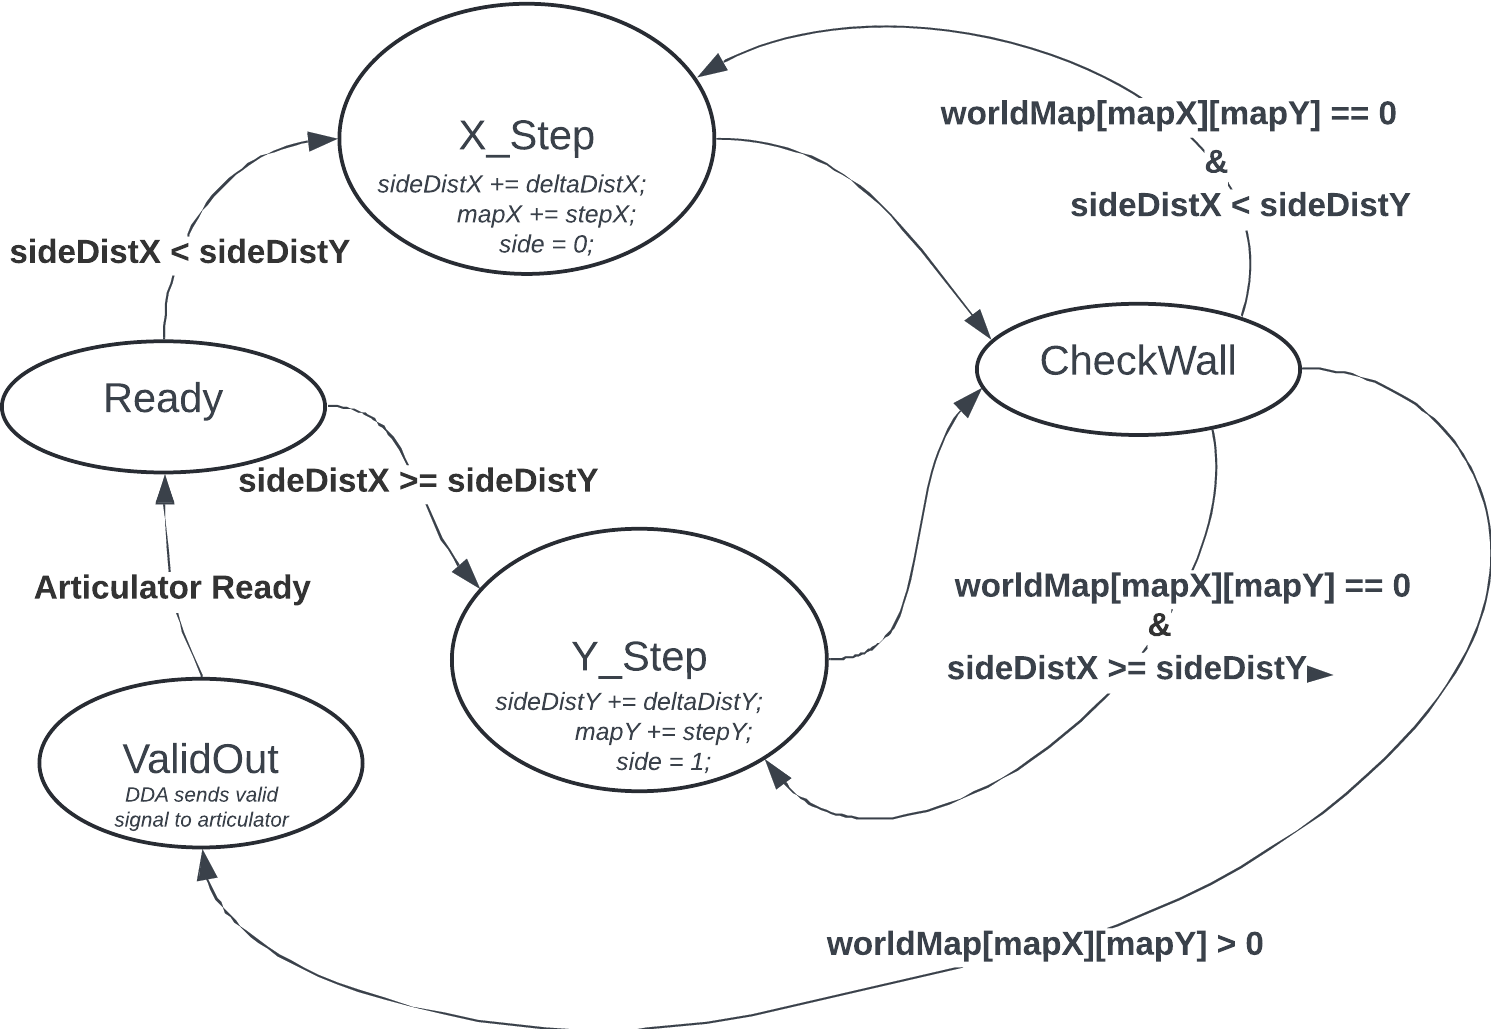
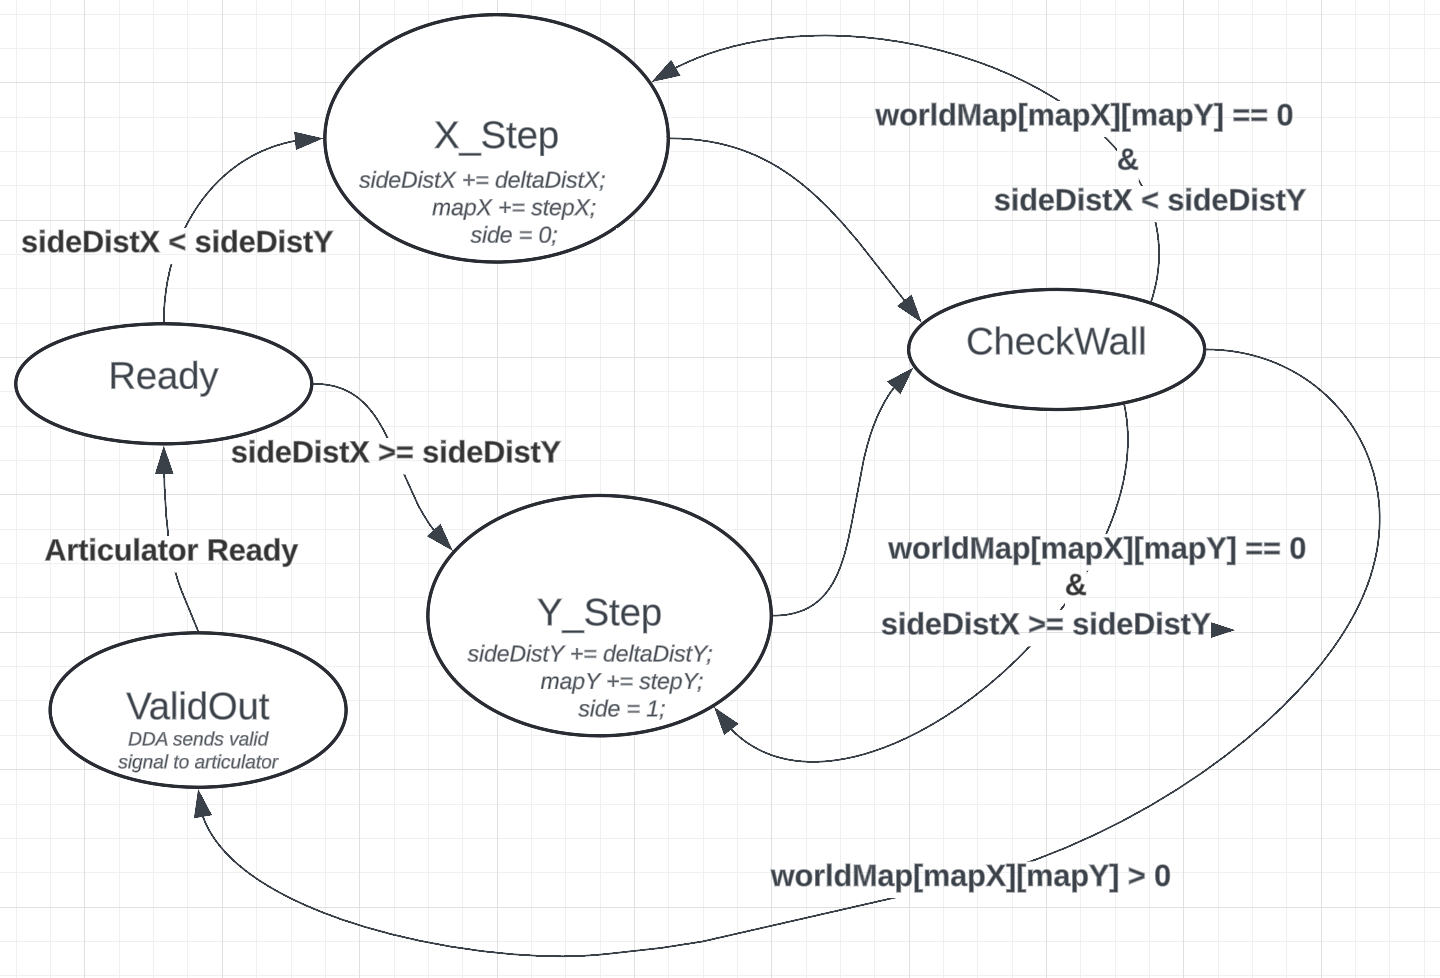
edited comments in frame-buffer, and edited images in README

diff --git a/README.md b/README.md
@@ -78,7 +78,9 @@ The corresponding `hcount` and calculated ray direction (`rayDirX` and `rayDirY`
 The Digital Differential Analyzer (DDA) module is responsible for calculating ray-wall intersection distances and related hit information, including wall type and precise hit location. The DDA algorithm incrementally steps along a ray's path by precomputed steps deltaDist until it detects a wall intersection using grid map data. This information is used for perspective and texture rendering, providing wall height and shading details.
 - DDA FIFOs: To handle the variable latency of the DDA algorithm, the DDA module is buffered with two FIFOs implemented via AXI stream interfaces: one for input data and one for output. These FIFOs ensure that preceding and following modules can operate independently at their own rates. The DDA input FIFO buffers ray data between the controller/ray calculation modules and the DDA module. It stores 139-bit wide inputs in a FIFO of size 144 × 256. The DDA output FIFO collects processed data from the DDA module into a single 38-bit wide data line stored in a FIFO of size 40 × 256.
 - Grid Map in BRAM: An instance of the grid is stored in a single-port read-first Block RAM (BRAM) in the top level, where each cell contains data indicating wall type or passability. A shared arbiter resolves access conflicts between DDA FSM submodules, granting BRAM access alternately as needed.
-<img src="images/dda_fsm.png" width="622" height="430">
+<div style="text-align: center;">
+    <img src="images/dda_fsm.png" width="622" height="430">
+</div>
 
 ### Parallel Processing with Finite State Machines (FSMs)
 *Parallel DDA Finite State Machines (FSMs)*
@@ -106,8 +108,9 @@ For each horizontal position on the screen, the DDA algorithm described above ef
 - `wallType` tells us which face of the wall we have hit (which is used for the differential shading of different faces of a cube). 0 refers to a `X wall` and 1 refers to a `Y wall`
 - `mapData` gives us a 4 bit representation of the color or texture of the specific block we’ve hit.
 - `wallX` is the exact position of the wall we have hit which is used to index into the appropriate vertical stripe of the texture BRAM
-
-<img src="images/yellowblock.png" width="518" height="333">
+<div style="text-align: center;">
+    <img src="images/yellowblock.png" width="518" height="333">
+</div>
 
 The transformation essentially flattens this vertical line data into pixel-level information by providing a specified pixel color at a specified pixel address: (hcount, vcount) for each pixel in the frame.
 
@@ -121,8 +124,9 @@ Depending on the region of the screen in which the currently calculated pixel is
 
 The three states within the transformation module:
 Since the vertical line data used for this transformation calculation is taken from the DDA-out FIFO, there needs to be ready-valid handshakes between the FIFO and the transformation module so ensure data is robustly dequeued. Therefore, there are three states within the transformation module described below and in Figure 5: the `FIFO_WAIT`, `FIFO_WAIT_NEW_PACKET`, and `FLATTENING` states. 
-
-<img src="images/transformation_fsm.png" width="518" height="509">
+<div style="text-align: center;">
+    <img src="images/transformation_fsm.png" width="518" height="509">
+</div>
 
 - `FIFO_WAIT`: the transformation module signals to the FIFO that it’s ready for new data. Once new valid data is received from the FIFO, the data is stored in a register and the module transitions to the flattening state. 
 - `FIFO_WAIT_NEW_PACKET`: After rendering the last pixel of a frame, the transformation module waits for an additional signal from the frame buffer to confirm that the frame buffer is done rasterizing to the screen and is ready to receive new frame data.
@@ -132,7 +136,9 @@ Since the vertical line data used for this transformation calculation is taken f
 Additionally, the `tlast` bit that accompanies each data set from the DDA-out FIFO enables the transformation module to signal to the downstream frame buffer when the last pixel of the current frame is being processed.
 
 ### Frame Buffer
-<img src="images/frame_buffer.png" width="700" height="750">
+<div style="text-align: center;">
+    <img src="images/frame_buffer.png" width="700" height="750">
+</div>
 
 There are two frame buffers which store the pixel data for each pixel location on the HDMI connected display. At any given moment, one of the frame buffers is being written to with the output of the preceding raycasting logic, while the other fully calculated frame buffer is being read from by the `video_signal` generation module to be displayed on the screen. This effectively pipelines the output to the display so that while one of them is still computing a frame, the other is outputting an already completed frame.
 
